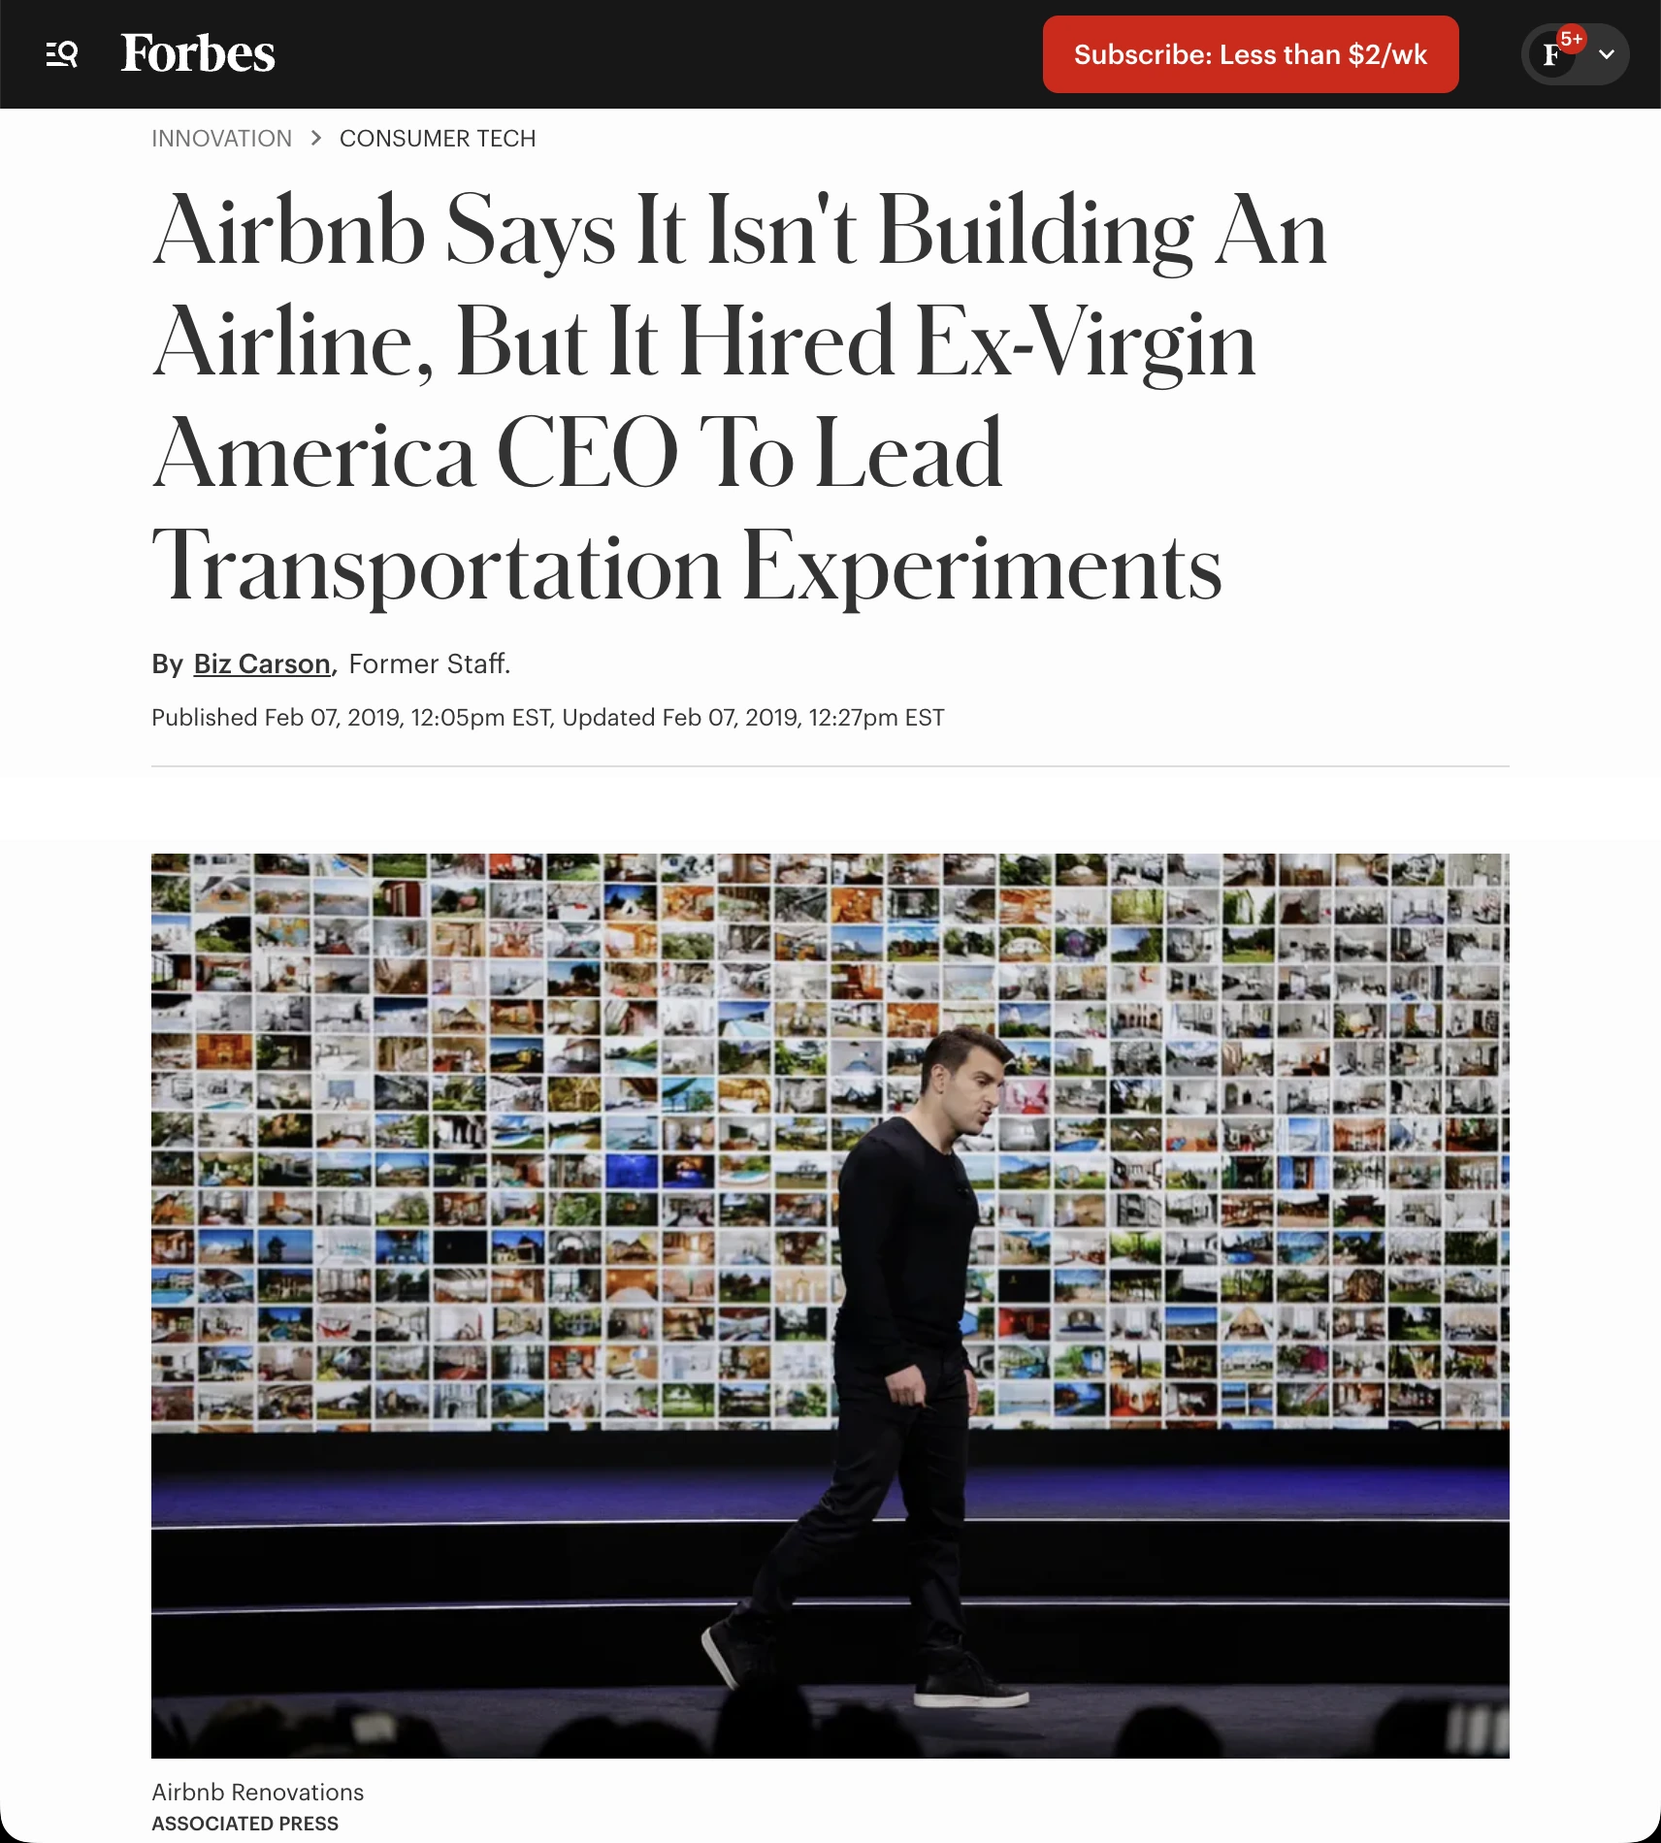
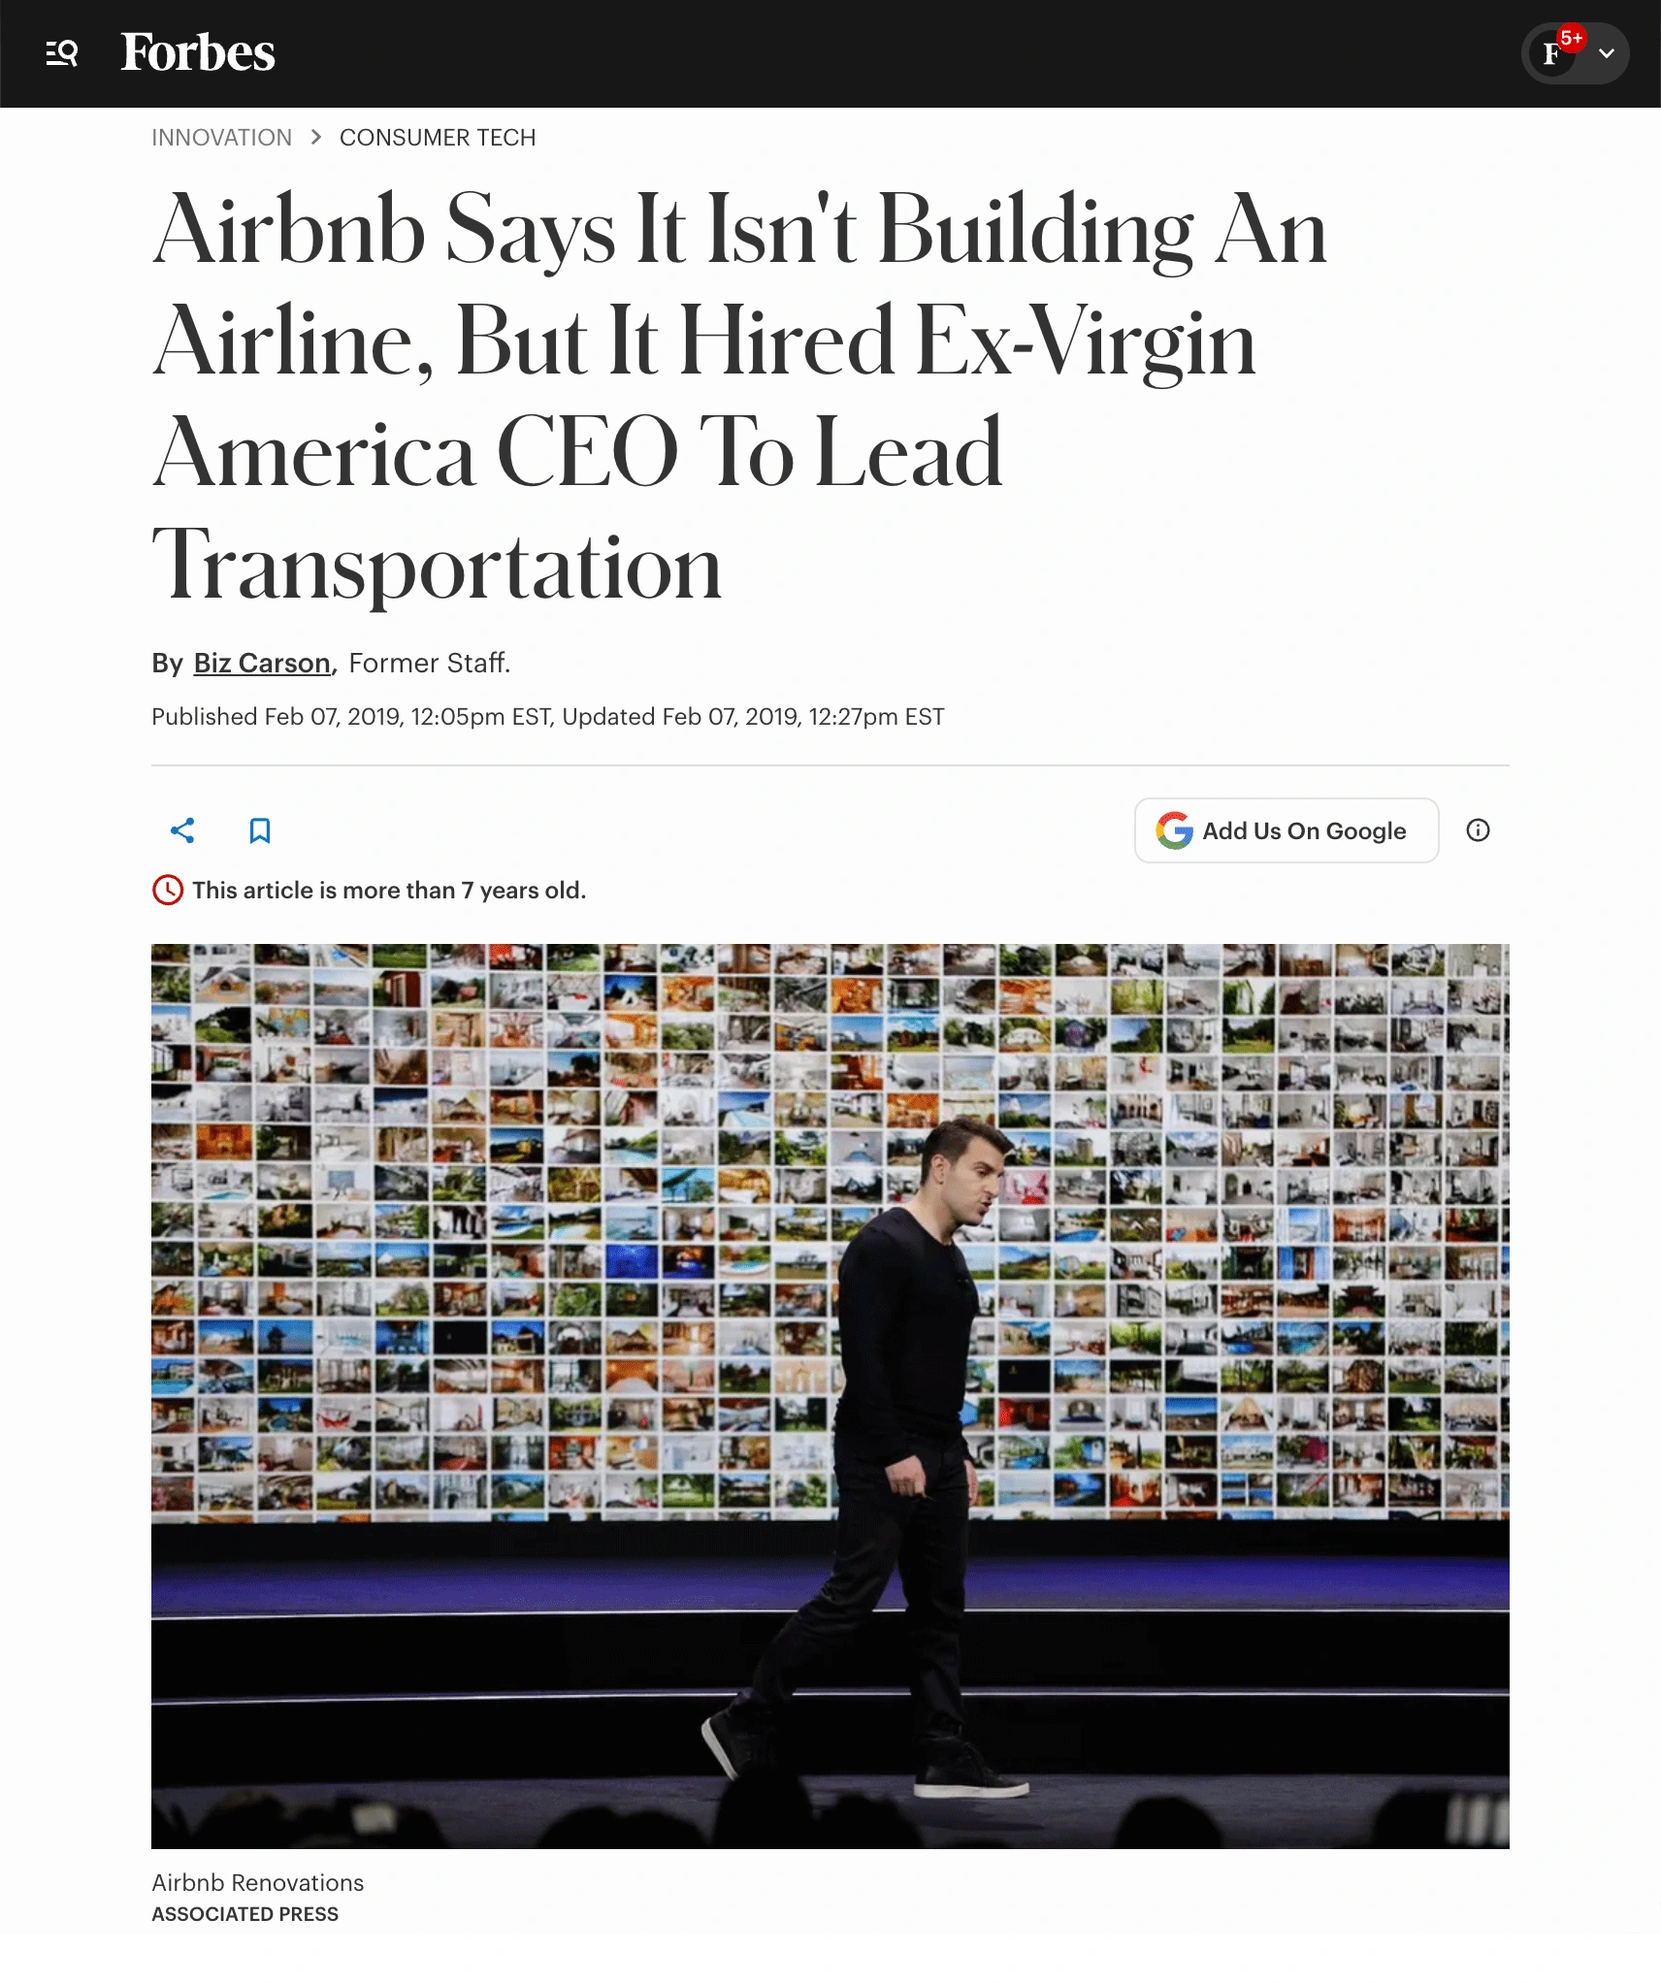
preso: the ten steps answer themselves, left to right
A second tap on the row sweeps it: each screen answers its own question, 420ms
apart, and nothing waits for the screen before it to finish. House is chosen,
then Home, then an entire place, then the address types itself in and the map
flies to Palm Springs, the counts count up, the amenities pick themselves, the
photos land, the name types, the chips turn on and the price ticks to $500 —
with the map still moving while the ones after it are going. That overlap is
the point: ten screens answering at once reads as a flow working, where ten in
series reads as a queue. No phone ever presses its own Next; the row stays on
the ten screens it is showing.

It runs on slide 11's own BEATS, not a second copy of them. Two hooks there:

  presoPark(n)  land on a beat and STAY — no answering itself after LAND_HOLD,
                and none of the four screens that fill themselves in on arrival
                doing so. A parked screen is the question, not the answer.
  presoAct()    perform THIS screen's answer in place. Where the next beat
                belongs to the same screen it IS the answer; where it does not,
                the screen fills itself in and is simply run again.

09f used to write body.className straight into each frame, which put the right
screen up but skipped the beat system — so the counts, the amenities, the chips
and the price had no animation left in them to play. It parks through the beats
[…]

diff --git a/preso/slides/09f.html b/preso/slides/09f.html
@@ -46,6 +46,20 @@
      deck's own push, to the millisecond, lifted from index.html: DUR 520 on
      EASE cubic-bezier(0.16, 1, 0.3, 1). Nothing staggers, nothing deals.
 
+     TAP TWO SWEEPS THE ROW. Each screen answers its own question, left to
+     right, 420ms apart — House is chosen, then Home, then an entire place,
+     then the address types itself in and the map flies to it, and so on to the
+     price counting up. Nothing waits for the screen before it to finish; the
+     map is still moving while the amenities are picking themselves. That
+     overlap is the point, because ten screens answering at once reads as a
+     flow working where ten in series reads as a queue.
+
+     IT NEVER PRESSES A PHONE'S NEXT BUTTON. The row has to stay on the ten
+     screens it is showing, so the sweep uses slide 11's presoAct(), which
+     answers in place and stops. Those answers come out of slide 11's own BEATS
+     table — the same choices it makes when you tap through it on its own — so
+     nothing here is a second copy of what the flow does.
+
      THE CELL IS CROPPED TO THE PHONE. Slide 11 sizes its phone at 80vh of its
      own viewport, so a cell showing the whole viewport carries 20% dead
      margin. Each cell is therefore 800 of the 1000pt viewport tall, with the
@@ -136,6 +150,13 @@
   const INTRO = 'step0';                    // the splash — the lead-in, not a step
   const STEPS = ['', 'step1b', 'step2', 'step3', 'step4', 'step5',
                  'step6', 'step7', 'step8', 'step8b'];
+  // Which of slide 11's BEATS each cell is parked on — the beat where that
+  // screen has ARRIVED and has not yet answered. presoAct() is what answers
+  // it. Read straight off the BEATS table in 11.html; if a beat is inserted
+  // there, these move.
+  //        step1  1b  2   3   4   5   6   7   8   8b
+  const PARK = [1,  3,  5,  7,  9, 10, 11, 13, 15, 16];
+  const INTRO_BEAT = 0;
   const MAP_STEP = 'step3';                 // the only one that gets a real map
   // the slide-11 viewport each cell renders: 391.3 wide so the phone spans the
   // cell exactly (800 x 900/1840), 1000 tall of which the phone is the middle
@@ -147,29 +168,45 @@
   // the deck's per-load stamp, passed down so a cell is never a stale copy
   const v = new URLSearchParams(location.search).get('v');
 
-  function cellFor(cls) {
+  // THROUGH THE BEAT SYSTEM, NOT THE BODY CLASS. This used to write
+  // body.className straight into the frame, which put the right screen up and
+  // skipped slide 11's beats entirely — so the counts, the amenities, the
+  // chips and the price had no animation left in them to play. presoPark()
+  // lands the frame on the beat properly and holds it there: the screen as a
+  // question, waiting.
+  function park(cell) {
+    try { cell._w.presoPark(cell._beat); return true; } catch (_) { return false; }
+  }
+  function act(cell) {
+    try { return !!cell._w.presoAct(); } catch (_) { return false; }
+  }
+
+  function cellFor(cls, beat) {
     const cell = document.createElement('div');
     cell.className = 'cell';
+    cell._beat = beat;
     const f = document.createElement('iframe');
     f.title = 'Host setup — ' + (cls || 'step 1');
     f.setAttribute('scrolling', 'no');
     f.src = '11.html?' + (cls === MAP_STEP ? '' : 'nomap=1&') + 'still=1' + (v ? '&v=' + v : '');
     f.addEventListener('load', () => {
-      const d = f.contentDocument; if (!d) return;
-      const set = () => { d.body.className = cls; };
-      set();
+      cell._w = f.contentWindow;
+      park(cell);
       // Slide 11 runs its own opening beat on load, which would put every cell
-      // back on step 1. Re-assert after it has had its go.
-      setTimeout(set, 120); setTimeout(set, 600); setTimeout(set, 1400);
+      // back on step 1. Re-assert after it has had its go. Parking is
+      // idempotent, and all of this is long finished before the tap.
+      setTimeout(() => park(cell), 120);
+      setTimeout(() => park(cell), 600);
+      setTimeout(() => park(cell), 1400);
     });
     cell.appendChild(f);
     return cell;
   }
 
-  const cells = STEPS.map(cellFor);         // the ten, and only the ten
+  const cells = STEPS.map((cls, i) => cellFor(cls, PARK[i]));   // the ten
   cells.forEach(c => row.append(c));
 
-  const intro = cellFor(INTRO);             // the lead-in, outside the row
+  const intro = cellFor(INTRO, INTRO_BEAT); // the lead-in, outside the row
   intro.classList.add('intro');
   slide.append(intro);
 
@@ -192,7 +229,8 @@
 
   function setLead() {                      // beat 0
     step = 0;
-    clearTimeout(nextT);
+    clearTimeout(nextT); stopSweep();
+    cells.forEach(park);                   // back to ten unanswered questions
     hold(row, () => {
       row.classList.add('waiting');        // in place, invisible, rendering
       row.classList.remove('offstage');
@@ -204,11 +242,20 @@
   }
 
   const DOWN = 460, BEAT = 60;
-  let nextT = 0;
+  // THE SWEEP. One fixed interval between screens, left to right, and nothing
+  // waits for the screen before it to finish — the address map is still flying
+  // while the amenities are picking themselves and the price is counting up.
+  // That overlap is the point: ten screens answering at once reads as a flow
+  // working, where ten in series reads as a queue.
+  const SWEEP = 420;
+  let nextT = 0, sweepT = [];
 
-  function openRow() {                      // the tap
+  function stopSweep() { sweepT.forEach(clearTimeout); sweepT = []; }
+
+  function openRow() {                      // tap 1 — the row arrives
     step = 1;
-    clearTimeout(nextT);
+    clearTimeout(nextT); stopSweep();
+    cells.forEach(park);
     intro.classList.add('gone');            // down to the size of the ten, and out
     nextT = setTimeout(() => {
       // One frame off the right, visible, then let go: the push, from content
@@ -240,24 +287,35 @@
   const r0 = slide.getBoundingClientRect(); fit(r0.width, r0.height);
   setLead();
 
+  // tap 2 — each screen answers itself, left to right. It NEVER presses a
+  // phone's Next button: the row stays on the ten screens it is showing.
+  function sweep() {
+    step = 2;
+    stopSweep();
+    cells.forEach((c, i) => { sweepT.push(setTimeout(() => act(c), i * SWEEP)); });
+  }
+
   window.presoNext = () => {
-    if (step) return false;                 // out of builds — on to the tweet
-    openRow();
-    return true;
+    if (step === 0) { openRow(); return true; }
+    if (step === 1) { sweep();   return true; }
+    return false;                           // out of builds — on to the tweet
   };
   window.presoPrev = () => {
-    if (!step) return false;                // on the lead-in — the deck goes back
-    setLead();
-    return true;
+    if (step === 2) { openRow(); return true; }   // ten unanswered again
+    if (step === 1) { setLead(); return true; }
+    return false;                           // on the lead-in — the deck goes back
   };
   window.presoState = () => step;
   // Landing on the beat from the hash gets the end state, not the move.
   window.presoRestore = n => {
     if (!(n > 0)) return;
-    step = 1;
-    clearTimeout(nextT);
+    step = n > 1 ? 2 : 1;
+    clearTimeout(nextT); stopSweep();
     hold(intro, () => intro.classList.add('gone'));
     hold(row, () => { row.classList.remove('offstage'); row.classList.remove('waiting'); });
+    // Landing on the hash gets the end state, so the sweep runs at once rather
+    // than 420ms apart. The frames may still be loading, so it is retried.
+    if (n > 1) [0, 400, 1200, 2000].forEach(t => setTimeout(() => cells.forEach(act), t));
   };
 })();
 </script>

diff --git a/preso/slides/11.html b/preso/slides/11.html
@@ -1463,6 +1463,14 @@
     armTimer = setTimeout(arm, ARM_GAP);    // the choice reads first
   }
 
+  // PARKED — set only by presoPark(), which slide 09f uses to stand ten of
+  // these side by side, each holding one screen. A parked screen is the
+  // QUESTION: it does not answer itself after LAND_HOLD, and the four screens
+  // that fill themselves in on arrival (the counts, the amenities, the chips,
+  // the price) hold still until presoAct() asks them to. Left alone, this flag
+  // is false and nothing below it changes.
+  let parked = false;
+
   function commit(b) {
     document.body.classList.toggle('step0', b.step === 0);
     document.body.classList.toggle('step1b', b.step === '1b');
@@ -1486,18 +1494,18 @@
     if (b.step === 3) { if (map) map.resize(); if (!b.play) resetAddress(); }
     else resetAddress();
     if (b.play === 'address') runAddress();
-    if (b.step === 4) runCounts(); else resetCounts();
-    if (b.step === 5) runAmenities(); else resetAmenities();
+    if (b.step === 4 && !parked) runCounts(); else resetCounts();
+    if (b.step === 5 && !parked) runAmenities(); else resetAmenities();
     if (b.step !== 7 || !b.play) resetName();
     if (b.play === 'name') runName();
-    if (b.step === 8) runChips(); else resetChips();
-    if (b.step === '8b') runPrice(); else resetPrice();
+    if (b.step === 8 && !parked) runChips(); else resetChips();
+    if (b.step === '8b' && !parked) runPrice(); else resetPrice();
 
     if (b.select) answer(b);
     // the following beat is this same screen making its own choice — it runs
     // on its own, and the tap is reserved for the button
     const nxt = BEATS[beat + 1];
-    if (nxt && nxt.select && nxt.step === b.step) {
+    if (nxt && nxt.select && nxt.step === b.step && !parked) {
       autoTimer = setTimeout(() => apply(beat + 1), LAND_HOLD);
     }
     // the intro and the two read-only screens have nothing to answer
@@ -1561,6 +1569,43 @@
 
   window.presoNext = () => { if (beat >= BEATS.length - 1) return false; apply(beat + 1); return true; };
   window.presoPrev = () => { if (beat <= 0) return false; apply(beat - 1); return true; };
+  // --- what slide 09f drives ------------------------------------------
+  // It shows the ten steps side by side, each phone parked on one of them, and
+  // needs two things the deck's own tap-through does not give it.
+  //
+  // presoPark(n) lands on beat n and STAYS: see `parked` above. 09f used to do
+  // this by writing body.className straight in, which put the right screen up
+  // but skipped the beat system entirely — so the counts, the amenities, the
+  // chips and the price had no animation left in them to play.
+  //
+  // presoAct() performs THIS screen's own answer, in place, and NEVER presses
+  // Next — the row must stay on the ten screens it is showing. Where the next
+  // beat belongs to the same screen (the choice being made, the address
+  // typing, the name typing) that beat is the answer; where it does not, the
+  // screen is one that fills itself in and is simply run again.
+  window.presoPark = n => {
+    parked = true;
+    clearTimeout(timer); clearTimeout(timer2);
+    clearTimeout(autoTimer); clearTimeout(armTimer);
+    beat = Math.max(0, Math.min(n, BEATS.length - 1));
+    commit(BEATS[beat]);
+  };
+  window.presoAct = () => {
+    const b = BEATS[beat]; if (!b) return false;
+    const nxt = BEATS[beat + 1];
+    if (nxt && nxt.step === b.step) {       // the same screen's own next beat
+      parked = false;                       // let that one beat happen
+      apply(beat + 1);
+      parked = true;
+      return true;
+    }
+    if (b.step === 4)    { resetCounts();    runCounts();    return true; }
+    if (b.step === 5)    { resetAmenities(); runAmenities(); return true; }
+    if (b.step === 8)    { resetChips();     runChips();     return true; }
+    if (b.step === '8b') { resetPrice();     runPrice();     return true; }
+    return false;
+  };
+
   window.presoState = () => Math.max(0, beat);   // the deck's URL carries this slide's beat (John, 2026-09-22)
   window.presoRestore = n => { if (n > 0) apply(Math.min(n, BEATS.length - 1)); };
 })();

diff --git a/preso/slides/09b0.html b/preso/slides/09b0.html
@@ -10,13 +10,15 @@
      the work that follows was a real bet the company was publicly making, not
      a designer's side exploration.
 
-     THE CHROME IS CUT OUT, THE ARTICLE IS NOT. The capture is John's own, and
-     nothing in it is retouched or re-set. Two pieces of the page are kept —
-     the masthead down through the byline and rule, and the photograph with its
-     credit — with the share icons, the "Add Us On Google" box and the "more
-     than 7 years old" banner dropped from between them and a flat 64px of the
-     page's own white put in their place. Forbes' type, Forbes' photograph,
-     Forbes' byline: a citation, not a mock-up.
+     THE PAGE AS JOHN CAPTURED IT, WHOLE. An earlier pass worked from a
+     browser-window grab and had to cut it about — the window chrome off the
+     top, the share icons and the "Add Us On Google" box lifted out of the
+     middle, the two halves rejoined over a strip of the page's own white. That
+     capture also carried a longer headline ("...To Lead Transportation
+     Experiments") and a Subscribe button in the masthead. This one is the
+     article on its own, so nothing is cut and nothing is rejoined: Forbes'
+     type, Forbes' photograph, Forbes' byline, in Forbes' order. A citation,
+     not a mock-up.
 
      NO ANIMATION OF ITS OWN. The deck pushes it in from the right and off to
      the left, the same as the flights screens it introduces. Nothing to
@@ -55,7 +57,7 @@
 <body>
   <div class="slide">
     <div class="frame">
-      <img src="assets/forbes-transportation.webp" width="1712" height="1990"
+      <img src="assets/forbes-transportation.webp" width="1712" height="2044"
            alt="Forbes, February 2019: Airbnb says it isn't building an airline, but it hired ex-Virgin America CEO to lead transportation">
     </div>
   </div>
